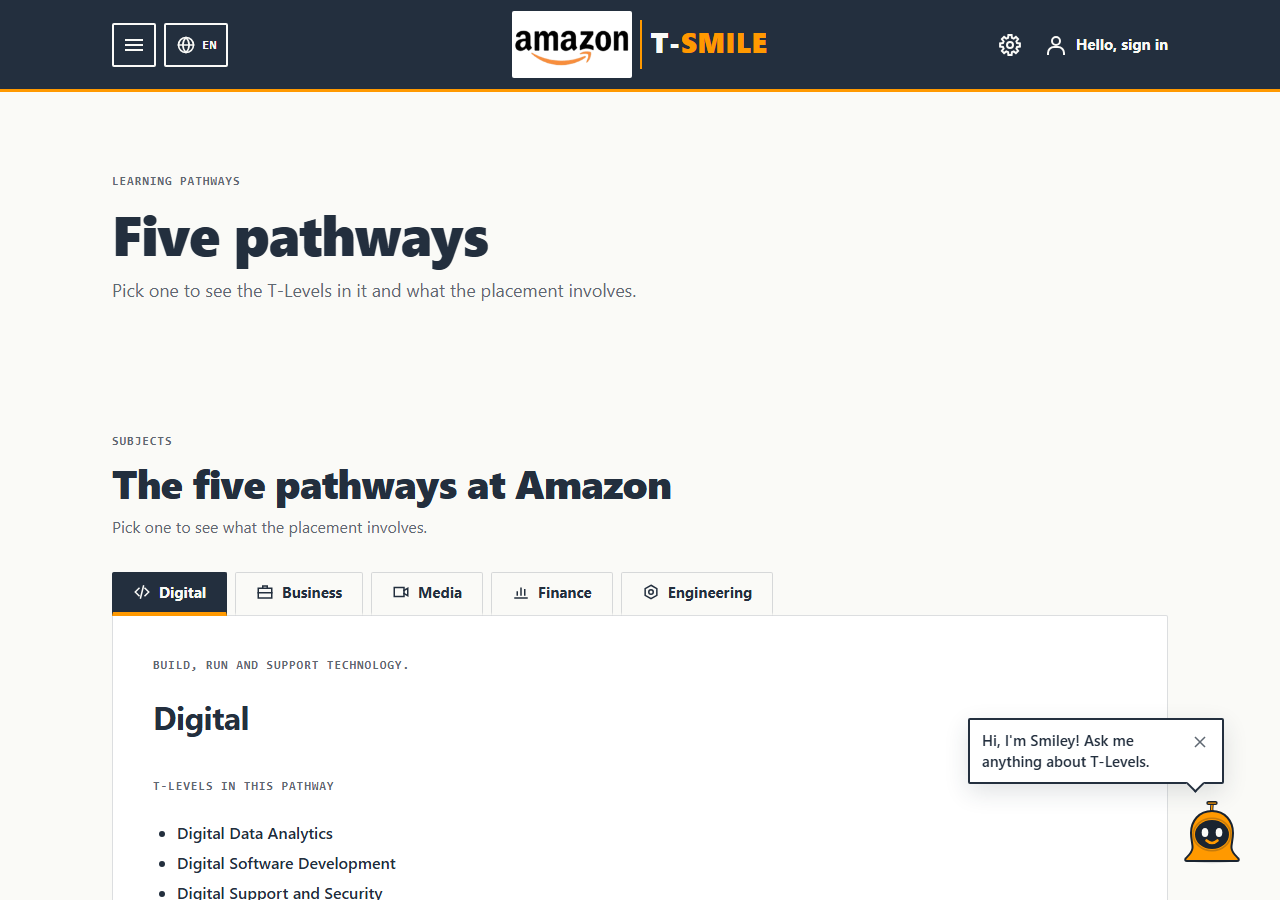
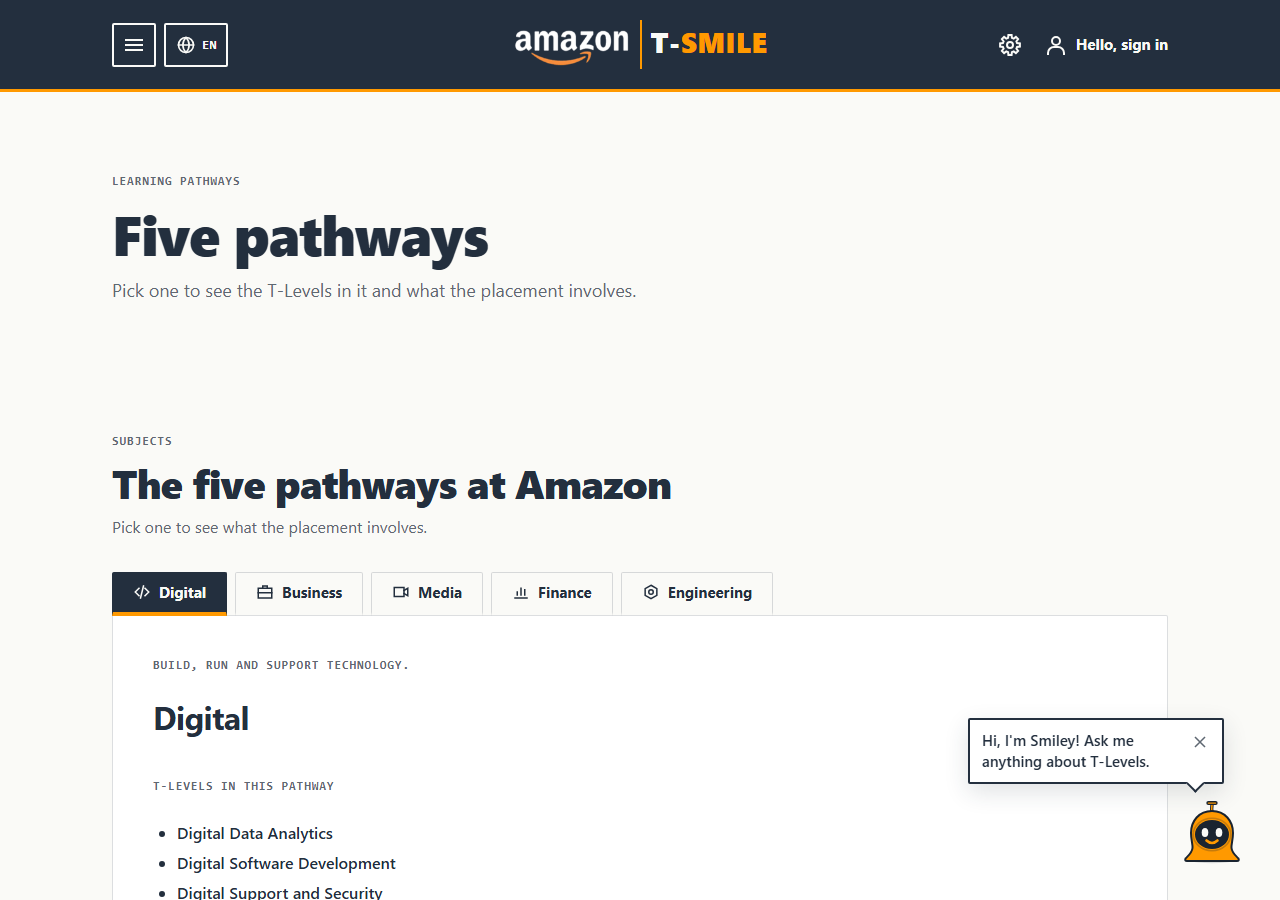
Fade the floating names on the left of the hero instead of a halo, and fresh screenshots

Changed region(s): [[0.375, 0.0, 0.5, 0.0933]]

diff --git a/frontend/src/styles.css b/frontend/src/styles.css
@@ -970,14 +970,7 @@ a.menu-hello__text:hover {
   line-height: 1;
 }
 
-/* A halo in the page colour, so the floating subject names fade out behind
-   the hero text instead of running through it. A filter, not text-shadow:
-   text-shadow is drawn line by line, so the second line's halo covered the
-   bottom of the first line's letters. */
-.hero__title,
-.hero__subhead {
-  filter: drop-shadow(0 0 0.15em var(--paper)) drop-shadow(0 0 0.35em var(--paper));
-}
+
 
 .hero__subhead {
   max-width: 34rem;
@@ -2005,7 +1998,12 @@ html[data-motion="full"] .rising-subjects {
 }
 
 /* On the homepage the names stay inside the hero. */
+/* The floating names fade out over the left of the hero, where the title
+   and text are, so they never run through the words. (A mask only uses the
+   colour's opacity, so any solid colour works here.) */
 .hero .rising-subjects {
+  -webkit-mask-image: linear-gradient(to right, transparent 40%, var(--blue) 70%);
+  mask-image: linear-gradient(to right, transparent 40%, var(--blue) 70%);
   position: absolute;
   top: calc(-1 * clamp(40px, 7vw, 80px)); /* matches main's top padding */
   z-index: 0;
